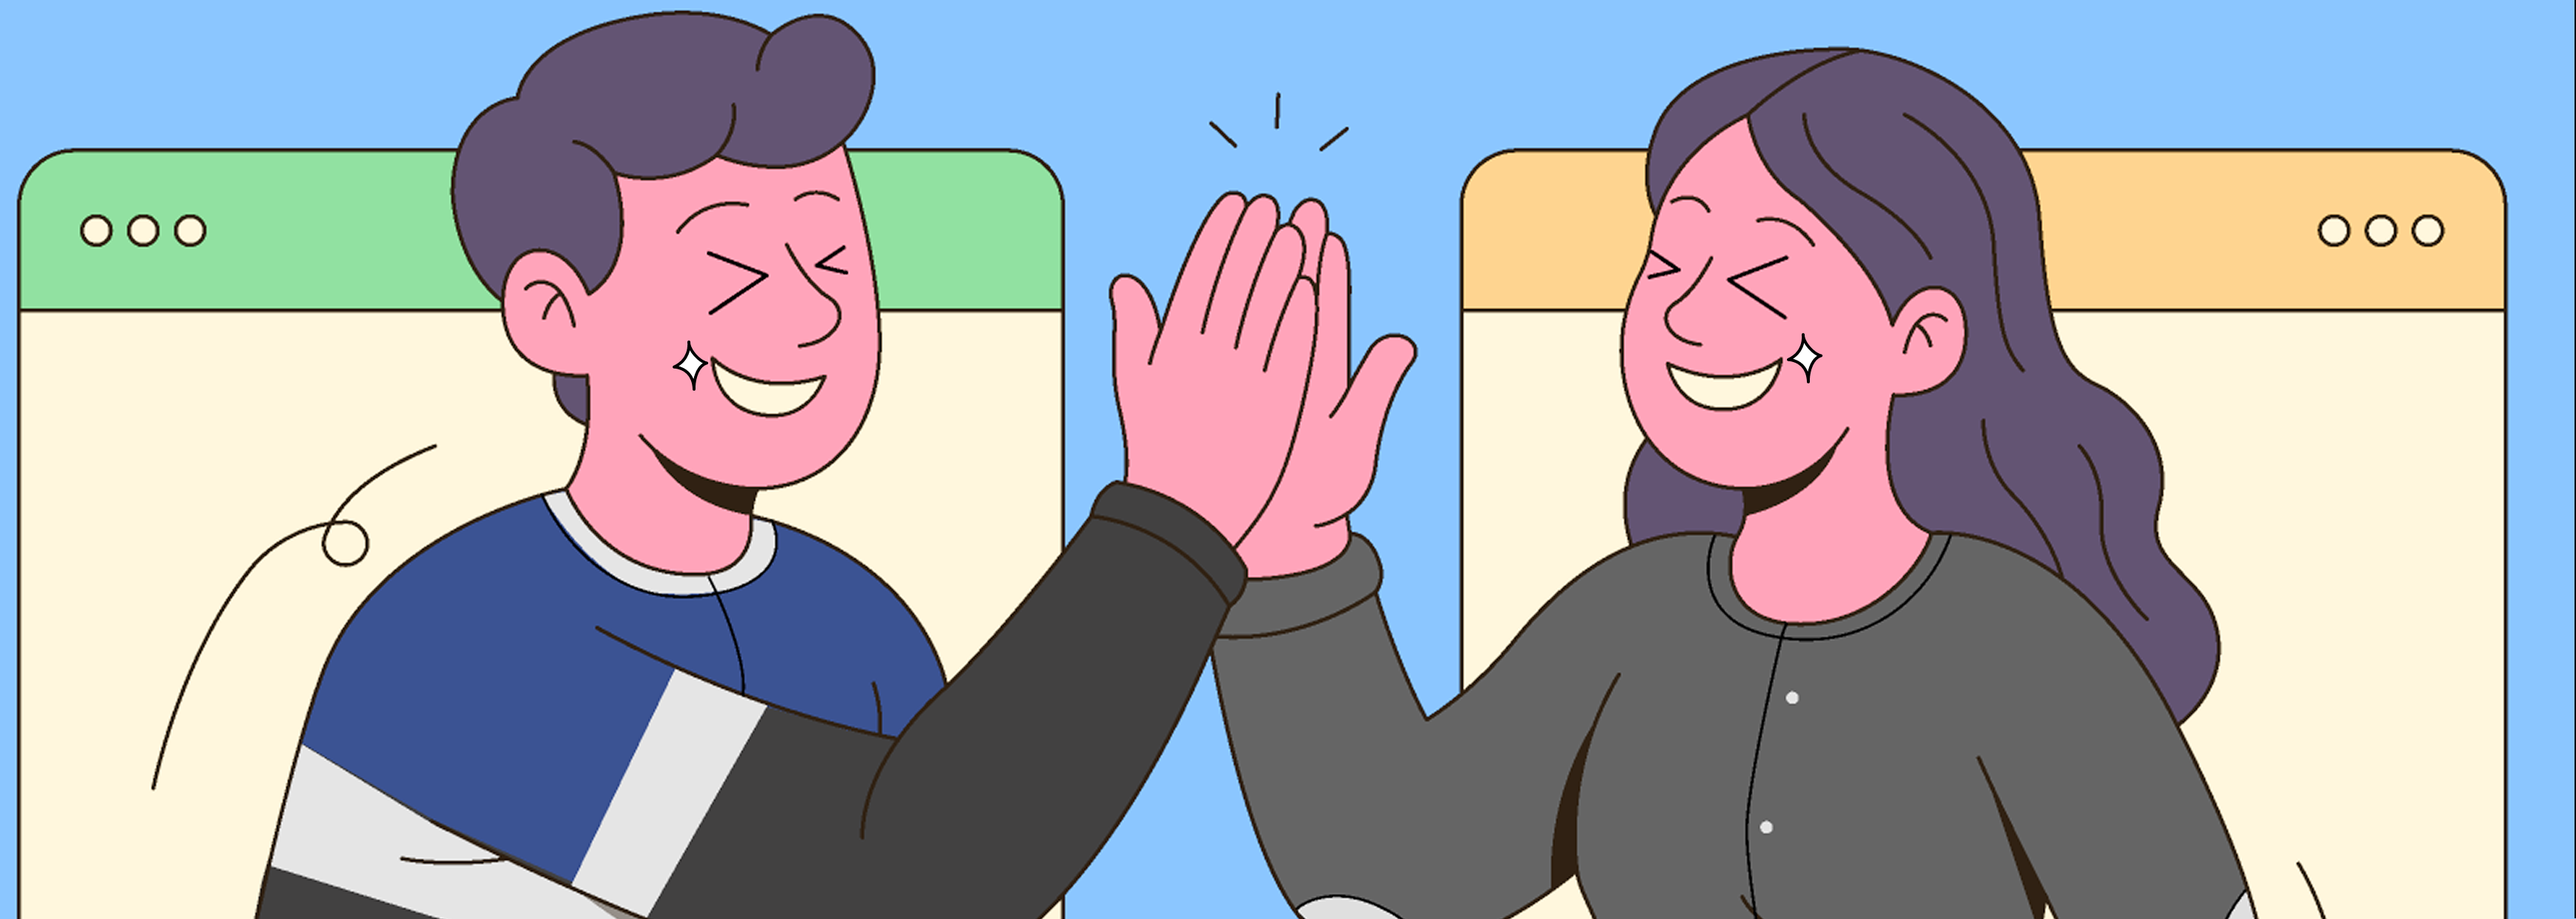
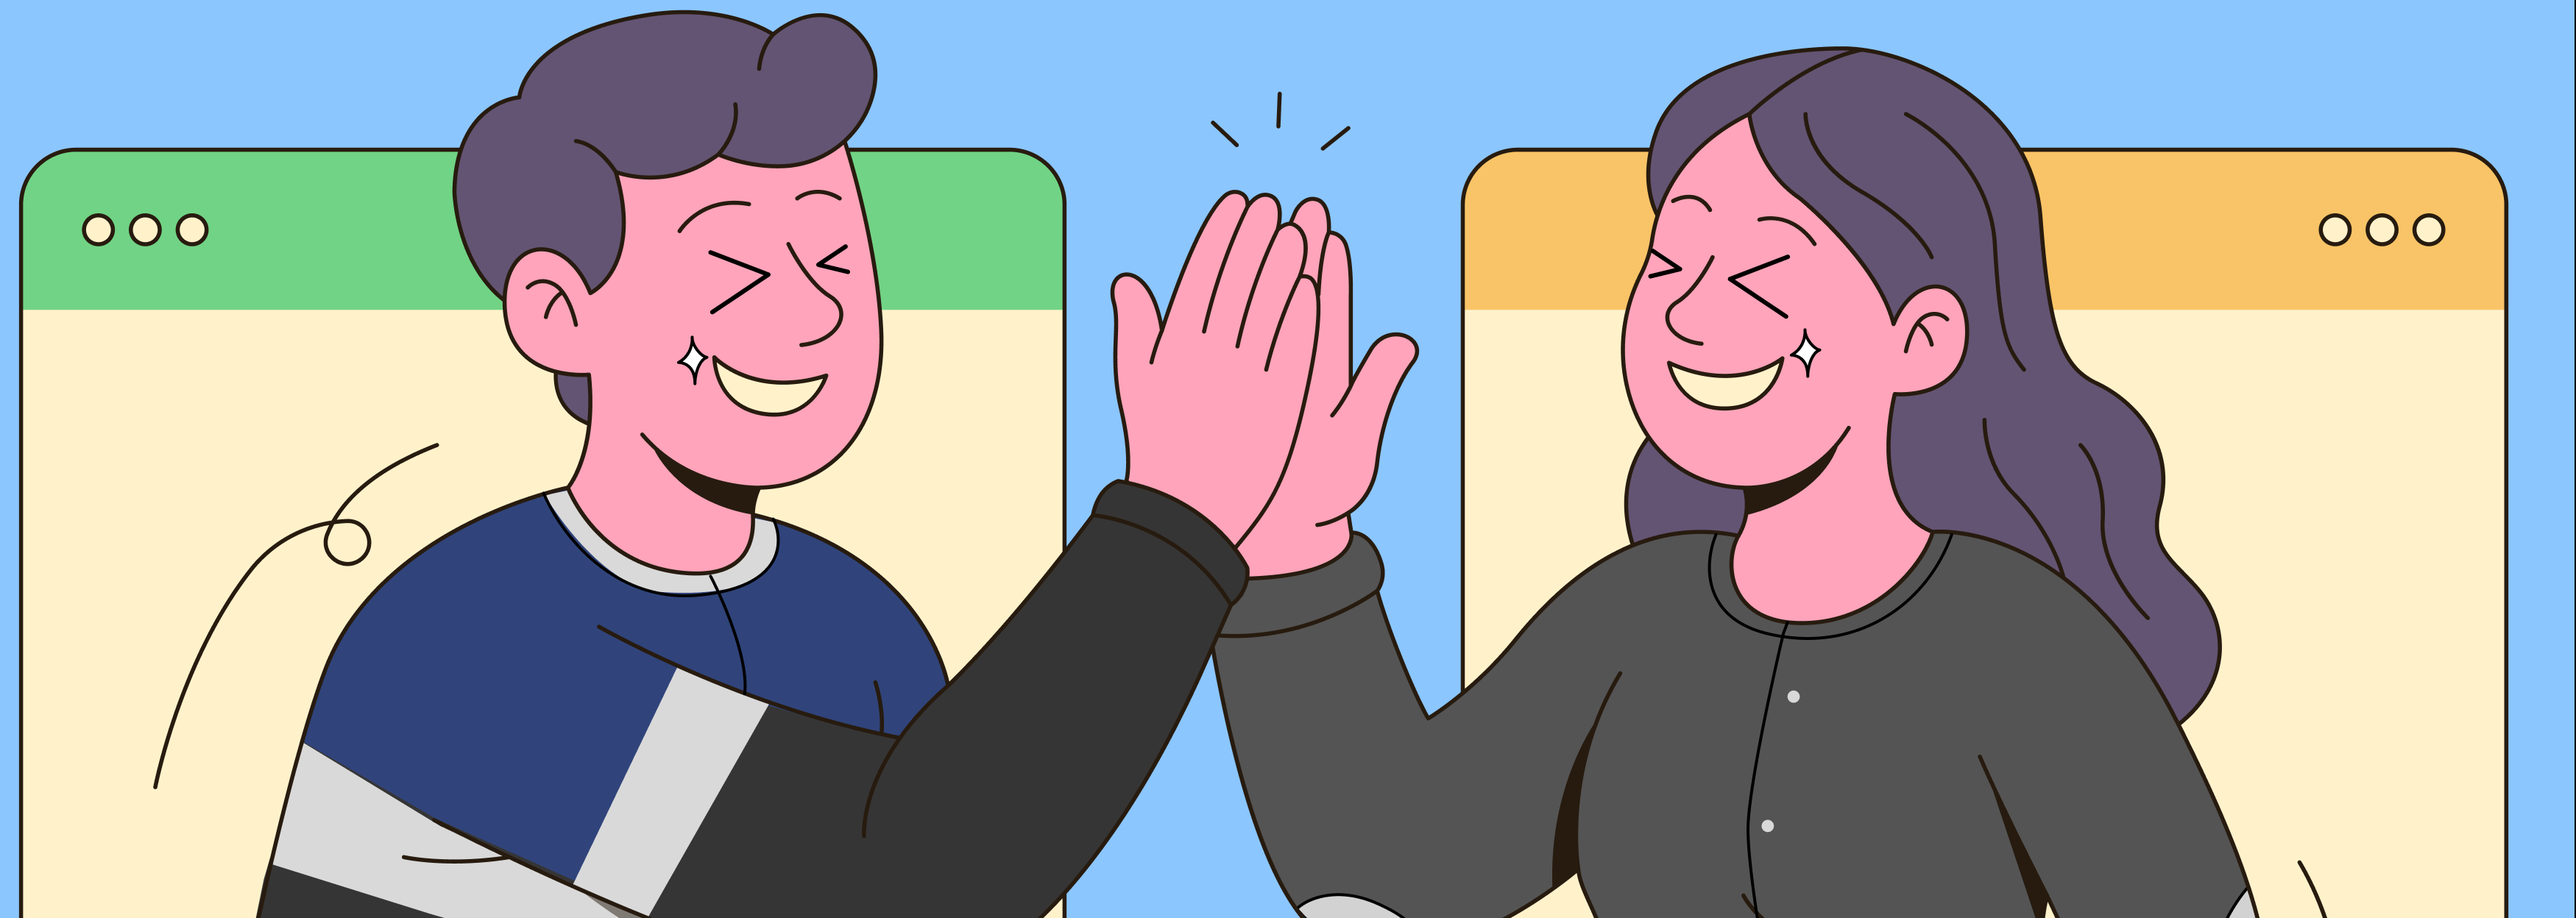
이미지 교체 및 piece-overlay-base 오파시티 수정

diff --git a/markup/assets/css/scss/_learning.scss b/markup/assets/css/scss/_learning.scss
@@ -219,7 +219,7 @@ $chapter-widths: (
           &[data-piece="6"] {
             .piece-overlay-base {
               fill: var(--bg-piece-1);
-              fill-opacity: 0.2;
+              fill-opacity: 0.1;
             }
           }
 
@@ -229,7 +229,7 @@ $chapter-widths: (
           &[data-piece="5"] {
             .piece-overlay-base {
               fill: var(--bg-piece-2);
-              fill-opacity: 0.2;
+              fill-opacity: 0.1;
             }
           }
 
@@ -237,7 +237,7 @@ $chapter-widths: (
           &[data-piece="8"] {
             .piece-overlay-base {
               fill: var(--bg-piece-3);
-              fill-opacity: 0.2;
+              fill-opacity: 0.1;
             }
           }
 
@@ -245,7 +245,7 @@ $chapter-widths: (
           &[data-piece="10"] {
             .piece-overlay-base {
               fill: var(--bg-piece-4);
-              fill-opacity: 0.2;
+              fill-opacity: 0.1;
             }
           }
         }

diff --git a/markup/assets/css/scss/_layout.scss b/markup/assets/css/scss/_layout.scss
@@ -320,10 +320,21 @@ html {
         @include flex();
         &:hover,
         &.active {
+          &::before{
+            content:"";
+            position: absolute;
+            left: 0;
+            bottom: -2px;
+            width: 100%;
+            height: 24px;
+            background: linear-gradient(180deg, #FFF 0%, #ECE9E4 100%);
+            pointer-events: none;
+          }
           > a {
             color: #000;
             filter: none;
             text-shadow: none;
+            z-index: 1;
           }
 
           border-radius: 8px 8px 0 0;
